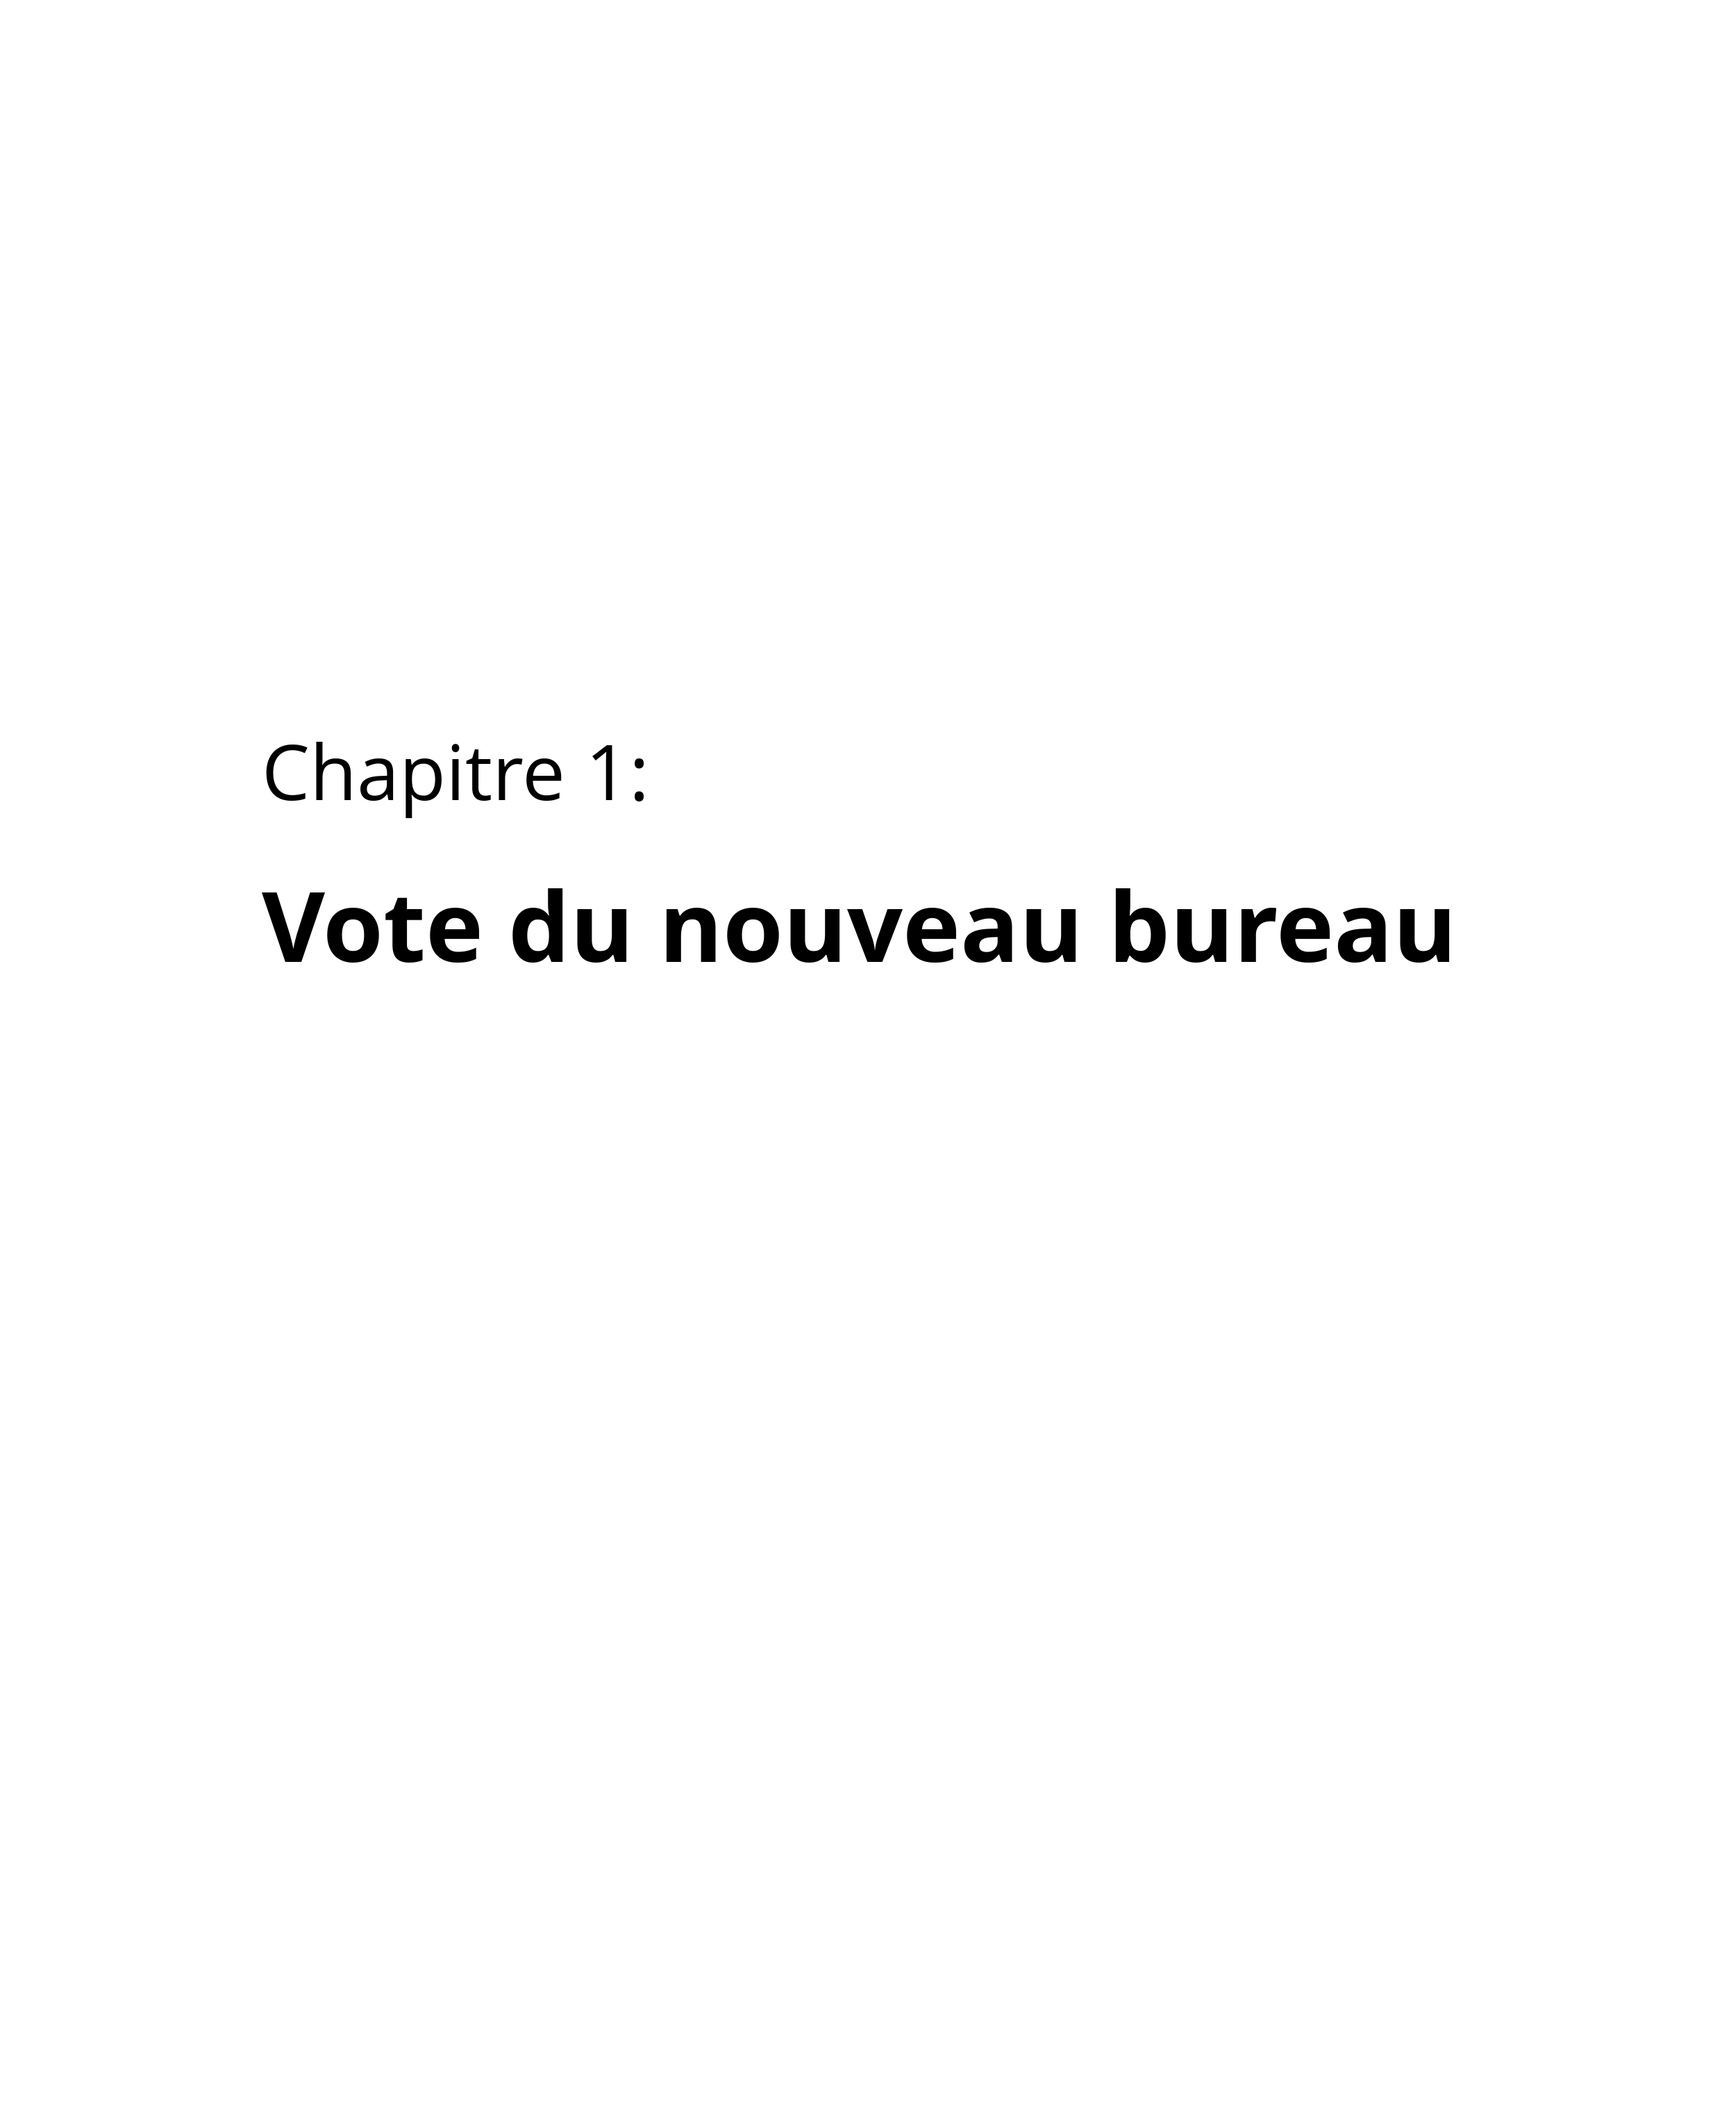
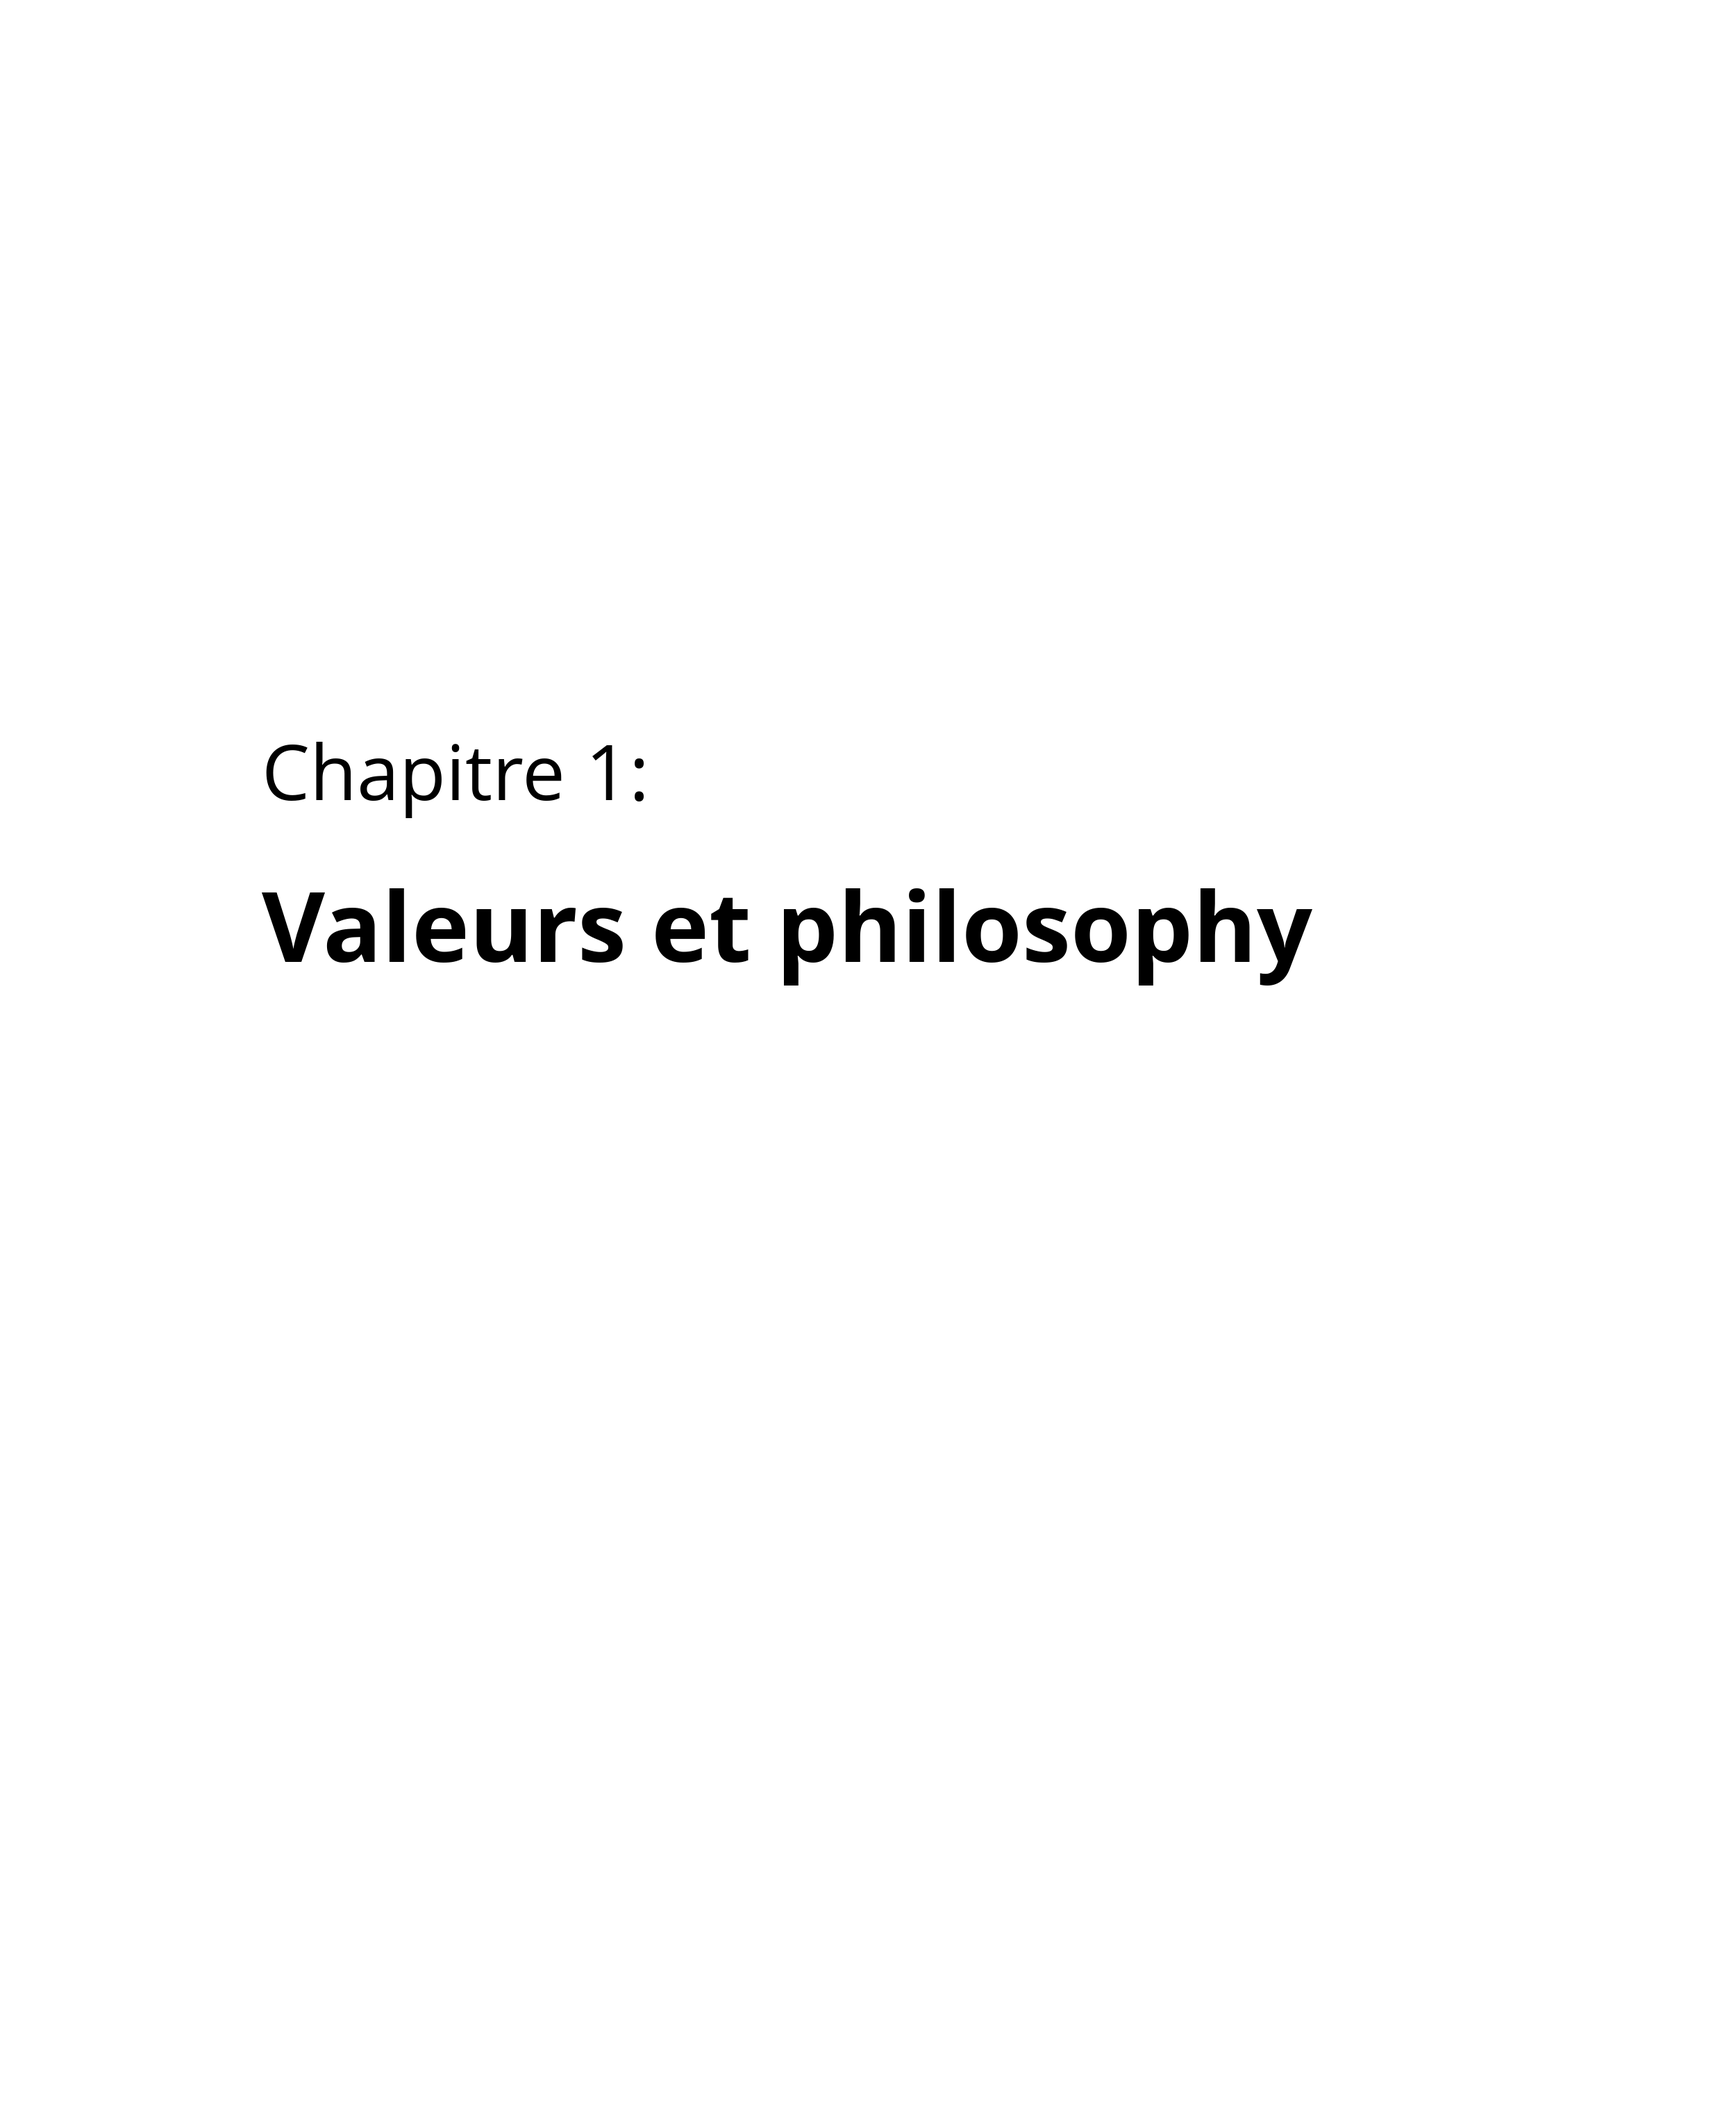
remettre un peu d'ordre

Changed region(s): [[0.1863, 0.4031, 0.8383, 0.4651]]

diff --git a/chap8/intro.md b/chap8/intro.md
@@ -1,0 +1,30 @@
+##Chapitre 8: Administration
+
+###Types d'administration:
+
+Le club dépend de deux aministrations:
+
+- La sous diréction des activités culturels et scientifiques: tout club universitaire y sont affilié, et doivent les informer de leurs activitées. La diréction forme aussi un lien entre les clubs et d'autres .... du réctorat (résponsables de la sécurité).
+
+- La diréction du Centre de Ressources Informatiques: le CRI étant le batiment auquel appartient le club, tout ce qui concerne le local doit passer par eux.
+
+- Scolarité/doyen des facultés: pour organiser n'importe quelle activité concernant une faculté donné, il est nécessaire d'avoir une autorisation de son doyen.
+
+###Role des membres du bureau executif
+
+La structure *"Président - V. président - Secrétaire Gle - Secretaire Gle. adjoint"* n'est que formalité: le role des membres du bureau est défini différemen. 
+
+Le président est le premier résponsable de ce qui se passe au club et le premier à être sonctioné en cas de dépassement. Les trois autres membres prennent en charge les différents départements mentioné dans les chapitres précédents.
+
+####President(e): 
+Haut résponsable qui a le dernier mot si il y a un conflit dans la prise d'une décision.
+
+Il se doit aussi de rendre des comptes à la sous direction des activités culturels et sportives (administration de l'univeritée) en ce qui concerne les activités du club.
+
+####Adhérents:
+Chaque adhérent résponsable (membre du bureau ou non) d'une activité est autorisé à prendre toute décision nécessaires au bon déroulement de son activité, **A PART* si la tache concerne une autre activité et/ou touch à l'image du club.
+
+La communication interne est primordiale ! chaque adhérent doit bien lire le chapitre traitant du sujet (chap4) !
+
+
+

diff --git a/SUMMARY.md b/SUMMARY.md
@@ -1,5 +1,5 @@
 * [chap1: Valeurs et philosophy](chap1/README.md)
-	* [About the soul](chap1/soul.md)
+	* [This is bigger than you](chap1/soul.md)
 * [Chap2: Debut d'année](chap2/README.md)
 	* [Vote du nouveau bureau executif](chap2/vote.md)
 	* [Inscriptions](chap2/inscriptions.md)
@@ -22,6 +22,7 @@
 * [Chap6: Projets ](chap6/README.md) 
 * [Chap7: Évenements ](chap7/README.md)
 * [Chap8: Administration ](chap8/README.md)
+	* [Introduction](chap8/intro.md)
 	* [Autorisation d'acces](chap8/acces.md)
 	* [Réservation de salle](chap8/reservation.md)
 	* [Demande de materiel](chap8/materiel.md)
